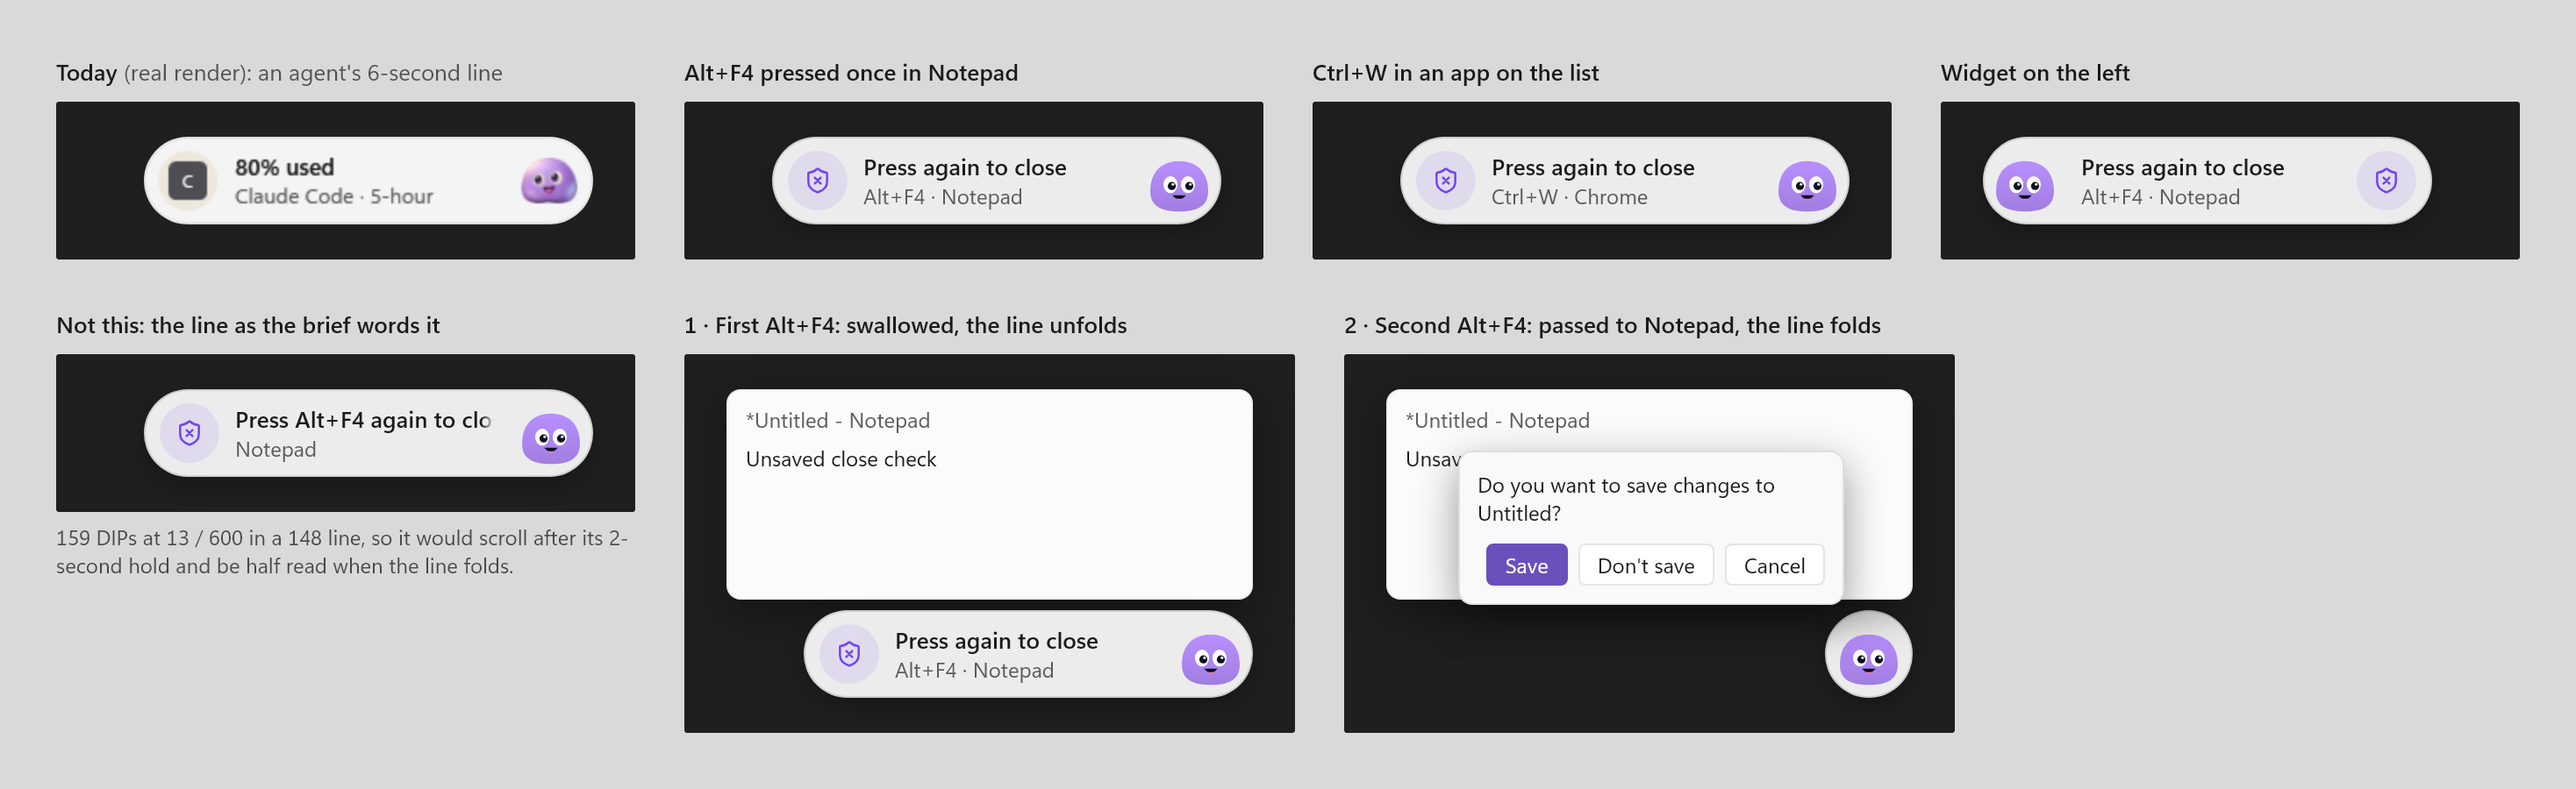
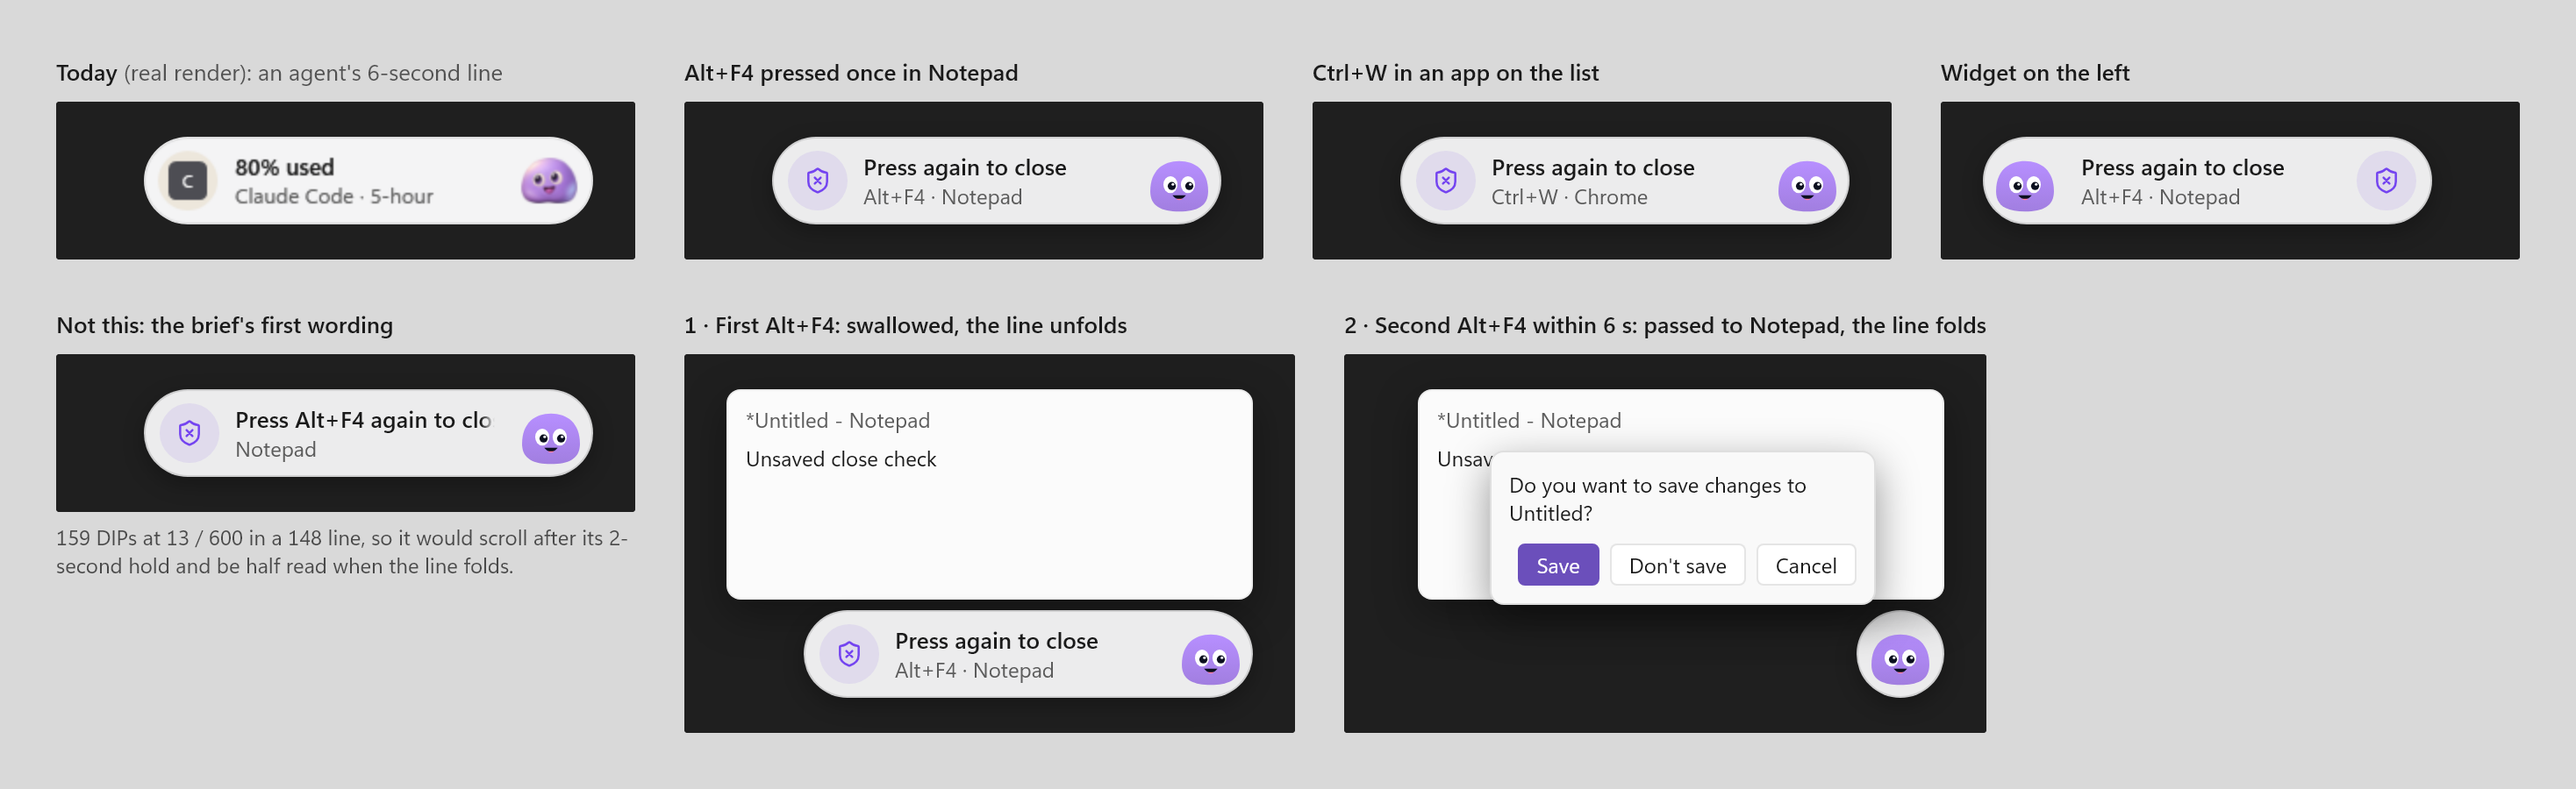
Phase 6: record Travis's wave 1 answers (tasks 262 to 264)
- wave-1.html approved, with real app icons (WindowsAppIcons) in every app list
- Close protection: a second press counts while the bar line shows (6 s), replacing 600 ms; the line folds whenever the pending press ends
- Close protection: when the bar can't show, the first press plays Windows' default beep
- Bar line wording "Press again to close" over "Alt+F4 · Notepad" carried into the brief, architecture and README

Changed region(s): [[0.5269, 0.4044, 0.7749, 0.9333], [0.062, 0.4044, 0.186, 0.4356]]

diff --git a/docs/phase-6/design/wave-1.html b/docs/phase-6/design/wave-1.html
@@ -1,4 +1,5 @@
 <!doctype html>
+<!-- Approved by Travis, 2026-11-04 (task 264). App lists show each app's real Windows icon, not these letter squares: see notes.md, App icons. -->
 <html lang="en">
 <head>
 <meta charset="utf-8">
@@ -374,9 +375,9 @@ const B={
   ${L('Ctrl+W in an app on the list',desk(bar('Press again to close','Ctrl+W · Chrome')))}
   ${L('Widget on the left',desk(bar('Press again to close','Alt+F4 · Notepad',{left:1}),'left'))}</div>
   <div class="srow">
-  ${L('Not this: the line as the brief words it',desk(bar('Press Alt+F4 again to close','Notepad',{cut:1})),'159 DIPs at 13 / 600 in a 148 line, so it would scroll after its 2-second hold and be half read when the line folds.')}
+  ${L('Not this: the brief\'s first wording',desk(bar('Press Alt+F4 again to close','Notepad',{cut:1})),'159 DIPs at 13 / 600 in a 148 line, so it would scroll after its 2-second hold and be half read when the line folds.')}
   ${L('1 · First Alt+F4: swallowed, the line unfolds',desk(notepad()+bar('Press again to close','Alt+F4 · Notepad')))}
-  ${L('2 · Second Alt+F4: passed to Notepad, the line folds',desk(notepad(1)+puck))}</div>`
+  ${L('2 · Second Alt+F4 within 6 s: passed to Notepad, the line folds',desk(notepad(1)+puck))}</div>`
 };
 document.body.className=theme;
 const html=B[board]();

diff --git a/docs/phase-6/design/notes.md b/docs/phase-6/design/notes.md
@@ -5,7 +5,7 @@ Every app, count and setting in these mockups is invented. Nothing read or chang
 ## Files
 
 - `actions-shortcuts.html`: task 212, the Actions menus and Settings › Shortcuts. Travis approved it on 2026-11-04 (task 240) with option B (task 224).
-- `wave-1.html`: wave 1's Settings screens and Close protection's bar line. **Not approved yet.**
+- `wave-1.html`: wave 1's Settings screens and Close protection's bar line. Travis approved it on 2026-11-04 (task 264), with real app icons in every app list ([App icons](#app-icons)).
 - `before\`: real renders from `main` at `b9b6d05`: the Actions gallery, Settings › General and Radial menu (`--settings-snapshot`, a dev profile with only Radial menu and every hold off), and the agent's 6-second bar line (`AgentBarTests.Render`).
 - `shots\<board>-<theme>.png`: 2x renders of every board, dark and light.
 - `render.ps1`: renders the PNGs again with headless Edge. Use `-Only <board>,<board>` to render only some boards.
@@ -30,11 +30,17 @@ Add `?board=<id>&theme=dark|light` to either page to see one board.
 
 `sheet-actions` B shows Input, Snap and Switcher partway through the gallery. The rule in `input-layer.md` replaces that order: remaining tiles keep their order, and a new tile goes after the last tile once its feature is installed (Kayla, Lumen and Marge, #223). The tiles themselves are as approved.
 
-## Wave 1: choices to approve
+## App icons
+
+Travis (task 264): every app list shows the app's real Windows icon, never the two-letter squares ("Ch", "VS") the mockup draws. That covers Pause in these apps, its Add app menu, Ctrl+W in these apps and Scrolling per app. Read the icon with `WindowsAppIcons` in Chippi.UI: `ReadWindow` for an app that's open, `Read` with the exe's path for one added with Browse… or not running. A letter shows only when Windows has no icon for the app, as in Search and Agents.
+
+The mockup keeps the squares because this repo is public and the apps are other companies' products, so their logos aren't drawn into it. Read each square as that app's icon at the same size (20 in lists and the menu).
+
+## Wave 1: choices Travis approved (task 264)
 
 1. **The bar line is "Press again to close" over "Alt+F4 · Notepad".** The brief's "Press Alt+F4 again to close" measures 159 DIPs at the bar's 13 / 600, and the title line has 148. It would scroll after its 2-second hold, so half of it would still be unread when the line folds. The keys and the app fit in the second line (91 DIPs). Ctrl+W uses the same line with "Ctrl+W · Chrome".
 2. **The lead is Close protection's ShieldX glyph** in the 34 accent-tint circle, the same as other activities, not the app's icon. The second line names the app.
-3. **The line folds when the second press closes the window.** The app's own save prompt takes over from there.
+3. **The line folds when the second press closes the window,** and whenever the pending press ends otherwise (6 s, focus moving, a pause). The app's own save prompt takes over from there.
 4. **Setting labels are noun phrases** (DESIGN.md §3): "Click debounce" and "Key debounce" replace the brief's "Ignore accidental double clicks" and "Ignore key chatter". "Debounce time" replaces "window", since "window" on the Windows pages would read as an app window.
 5. **The ignored count is the switch's caption** ("12 ignored"). It shows only while the switch is on, and it's kept in memory only.
 6. **Lists inside a section start with a header row** (the list's name, its count as caption and Add app or Add key), with items indented 50 below it, as dependent rows are. Pause in these apps, Ctrl+W in these apps, Keys with their own time and Scrolling per app all work this way.
@@ -43,12 +49,12 @@ Add `?board=<id>&theme=dark|light` to either page to see one board.
 9. **Open over fullscreen apps is the last row of Opening**, since it applies to every trigger above it. It's on by default.
 10. **A hook that stays down is an infobar naming the features that failed** ("Click debounce and Smooth scrolling failed", Retry), the same as the Shortcuts page's. It shows only after the watchdog's 5-second reinstall has failed.
 11. **Scroll speed and leaving an app alone share one list,** "Scrolling per app", with a combo per app: a speed, or Leave alone. A second list of the same apps would be redundant. Smooth scrolling is wave 2; it's drawn here so the Mouse page is designed once.
-12. **No row for fixed values:** Focus follows mouse's 250 ms delay and Close protection's 600 ms interval aren't settings (DESIGN.md §3, Setting labels).
+12. **No row for fixed values:** Focus follows mouse's 250 ms delay and Close protection's 6-second interval aren't settings (DESIGN.md §3, Setting labels).
 
-## Questions for Travis
+## Travis's answers
 
-1. **How long a second press counts.** The decided interval is 600 ms, and the bar's lines last 6 seconds. With both, the line still says "Press again" for 5.4 s after a second press would only be swallowed again. At 600 ms the bar has barely finished its 240 ms unfold, so the line can't be shorter. **Recommendation:** a second press counts for as long as the line shows (6 s), and the line folds when that time runs out. Focus moving to another window still resets the count, so a quick close of one window and then the next isn't affected.
-2. **When the bar can't show** (the island is off, or Always on is on while a fullscreen app fills the widget's display), the first Alt+F4 does nothing visible. **Recommendation:** play Windows' default beep in those cases, the same as Plain paste's failures.
+1. **How long a second press counts (task 262): while the line shows.** A second Alt+F4 or Ctrl+W closes the app for as long as the bar shows "Press again to close", 6 seconds, and the line folds when that runs out. This replaces the 600 ms interval, which would have left the line saying "Press again" for 5.4 s while a press was only swallowed again. Focus moving to another window still resets the count, so closing one window and then the next isn't affected.
+2. **When the bar can't show (task 263): the first press beeps.** With the island off, or Always on on while a fullscreen app fills the widget's display, the first press plays Windows' default beep, the same as Plain paste's failures. The second press still counts for 6 seconds.
 
 ## Not drawn, and why
 

diff --git a/docs/phase-6/close-protection.md b/docs/phase-6/close-protection.md
@@ -1,6 +1,6 @@
 # Close protection: brief
 
-Draft for Travis's confirmation. Wave 1. Bar feedback mockup required. [Decisions](README.md); [reference evidence](behavior-spec-a.md#3-quit-and-close-protection).
+Confirmed by Travis (task 240). Wave 1. The bar line and Settings › Windows › Keyboard are approved in [wave-1.html](design/wave-1.html) (task 264). [Decisions](README.md); [reference evidence](behavior-spec-a.md#3-quit-and-close-protection).
 
 ## Job and surface
 
@@ -8,11 +8,13 @@ Prevent accidental keyboard close. Settings > Windows > Keyboard owns Close prot
 
 ## Behavior
 
-When enabled, protect Alt+F4 in every eligible app. Swallow the first press and show "Press Alt+F4 again to close" on the bar without taking focus. Pass the second distinct physical press to the same window. Chippi sends no keys; the app keeps its normal close and save flow.
+When enabled, protect Alt+F4 in every eligible app. Swallow the first press and show "Press again to close" over "Alt+F4 · Notepad" (the app's name) on the bar without taking focus. Pass the second distinct physical press to the same window. Chippi sends no keys; the app keeps its normal close and save flow.
 
-Proposed interval: 600 ms, using an injected monotonic clock, matching the reference default. A held key's repeat never counts as a second press. Pending state belongs to window identity, process identity and chord. Reset on expiry, focus change, target destruction, lock, disable or shared pause. Handle down/up consistently so a swallowed press cannot leave keys logically held.
+Interval (Travis, task 262): a second press counts for as long as the bar shows the line, 6 seconds, the bar's usual line time. This replaces the reference's 600 ms. Use an injected monotonic clock. A held key's repeat never counts as a second press. Pending state belongs to window identity, process identity and chord. Reset on expiry, focus change, target destruction, lock, disable or shared pause. The line folds whenever the pending press ends: the second press, expiry or any reset, so it never says "Press again" when a press would be swallowed. Handle down/up consistently so a swallowed press cannot leave keys logically held.
 
-Ctrl+W is protected only for selected apps and uses "Press Ctrl+W again to close". Its pending state is independent. The app may close a tab or document.
+When the bar can't show (Travis, task 263): with the island off, or with Always on on while a fullscreen app fills the widget's display, the first press plays Windows' default beep (`MessageBeep(0)`, as Plain paste's failures do) instead. The press is still swallowed, and the second press counts for the same 6 seconds.
+
+Ctrl+W is protected only for selected apps and uses "Press again to close" over "Ctrl+W · Chrome". Its pending state is independent. The app may close a tab or document.
 
 Title-bar X, taskbar Close window, menus, shutdown, crashes and Task Manager are outside coverage. Desktop Alt+F4 passes through. Elevated targets pass through. Remote desktop and VM hosts need exclusions until forwarding is verified.
 
@@ -24,12 +26,12 @@ Match Vorssaint's distinct-press recognition while preserving Windows' normal sa
 
 ## Acceptance and owner check
 
-Deterministic tests cover interval boundaries, repeats, key-up balancing, focus changes, reused handles, exclusions, pause and disabling between presses. Assert zero synthetic input.
+Deterministic tests cover interval boundaries (a press at 5.99 s closes, at 6 s it's the first press again), the line folding on every reset, the beep when the bar can't show, repeats, key-up balancing, focus changes, reused handles, exclusions, pause and disabling between presses. Assert zero synthetic input.
 
-In Windows Sandbox with clipboard redirection and networking off, use a dev profile without Sound. Open Notepad, type "Unsaved close check", enable protection and press Alt+F4 once: text stays and the bar shows the line. Release F4 and press again within the interval: exactly one save prompt appears. Click Cancel. Repeat after interval expiry, then while holding F4 to exercise repeat. Test opt-in Ctrl+W on a disposable browser tab, title-bar X and fullscreen pause.
+In Windows Sandbox with clipboard redirection and networking off, use a dev profile without Sound. Open Notepad, type "Unsaved close check", enable protection and press Alt+F4 once: text stays and the bar shows the line. Release F4 and press again within 6 seconds: exactly one save prompt appears. Click Cancel. Repeat after the line folds (6 s): that press is a first press again. Then hold F4 to exercise repeat. Then turn the island off (warn first: this step plays a sound) and press Alt+F4 once: the default beep plays and the text stays; press again within 6 seconds: the save prompt appears. Test opt-in Ctrl+W on a disposable browser tab, title-bar X and fullscreen pause.
 
 Record feedback latency and bar screenshots. No input checks have run for this draft.
 
 ## Approval and dependencies
 
-Shared hook, app identity, actions and pause belong to Kayla's architecture. Travis confirms the proposed interval with this brief; the initial off state is decided, and the bar mockup needs approval before code.
+Shared hook, app identity, actions and pause belong to Kayla's architecture. Decided: the brief (task 240), the 6-second interval (task 262), the beep (task 263), the bar line and the Keyboard page (task 264), and the initial off state (task 226). Its app list shows each app's real icon (task 264, see [notes](design/notes.md#app-icons)).

diff --git a/docs/phase-6/architecture.md b/docs/phase-6/architecture.md
@@ -104,7 +104,7 @@ Sizes: **S** about a day, **M** a few days, **L** a week or more, each one PR.
 
 **App switcher with previews: L.** Opened by its own shortcut from the shortcut service; taking over Alt+Tab is a later option (task 211, #6) and then needs the hub with Alt masked. The list follows Windows' Alt+Tab rules (`AltTabApps`: visible, not cloaked, which also hides other virtual desktops, owner and tool-window styles), ordered by Chippi's own most-recent list from the foreground WinEvent, falling back to z-order for windows older than the session. Previews are live DWM thumbnails. **Probe:** a DWM thumbnail draws fully inside a WPF `AllowsTransparency` window, as in a plain one (`DwmRegisterThumbnail` and `DwmUpdateThumbnailProperties` both S_OK, 69.3% of the window covered in both), so the switcher can look like the island. A thumbnail draws above WPF content in its rectangle and can't be clipped to rounded corners, so it's inset, not rounded; a minimized window has no live preview, so it shows its icon, like Windows. Switching uses the island's `ActivateWindow`; a spike first checks the hand-off never leaves focus nowhere.
 
-**Close protection: S.** Keys only (task 211, #7). The first Alt+F4 (and Ctrl+W in the apps it's turned on for) is swallowed and the bar shows "Press Alt+F4 again to close"; a second press within the window passes through untouched, so Chippi sends nothing. Not covered: the close button, the taskbar's Close window, an app's own menu, admin windows.
+**Close protection: S.** Keys only (task 211, #7). The first Alt+F4 (and Ctrl+W in the apps it's turned on for) is swallowed and the bar shows "Press again to close" over "Alt+F4 · Notepad" (task 264), or Windows' default beep plays when the bar can't show (task 263); a second press while the line shows (6 s, task 262) passes through untouched, so Chippi sends nothing. Not covered: the close button, the taskbar's Close window, an app's own menu, admin windows.
 
 **Focus follows mouse: S.** Windows has it built in: `SPI_SETACTIVEWINDOWTRACKING`, with the window raised (`SPI_SETACTIVEWNDTRKZORDER`) after 250 ms (`SPI_SETACTIVEWNDTRKTIMEOUT`). No hook, and no fights with the foreground lock that an own version would have. Chippi records the setting it found and puts it back when the feature is off, paused, or uninstalled, and after a crash at the next start.
 

diff --git a/docs/phase-6/README.md b/docs/phase-6/README.md
@@ -24,6 +24,7 @@ Window layouts and snapping, app switcher, close protection, focus follows mouse
 - **Actions regroup (tasks 224 and 225):** option B. Lock, Turn off displays and Screen saver move into the Power menu, and End frozen apps moves into Quit apps, where a frozen app shows "Not responding" with End. Lock doesn't stay as a tile of its own. Phase 6 adds Snap, Input and Switcher as each feature is installed, which makes 18 tiles. Mockup: Lumen's Actions option B and menus (task 212).
 - **Start state (task 226):** what acts on your input in the background is off until you switch it on, even once it's installed: Close protection, Focus follows mouse, Smooth scrolling and Debounce (the four Travis was asked about), and by the same rule Snap's Shift+drag zones, Caps Lock combos and snippet expansion while typing. What you trigger yourself works once installed: the Snap menu, the App switcher's tile and Search, snippets picked in Search, and shortcuts you bind. The App switcher's shortcut is unassigned until you set one.
 - **Wave 1 calls (task 227):** Always on lives in Settings › General under Fullscreen apps. A "Pause in these apps" list covers games that run in a window. Shortcuts from before Phase 6 (mic mute and the rest) never pause.
+- **Wave 1 screens (tasks 262 to 264):** Travis approved Lumen's wave 1 mockup (`design/wave-1.html`), with each app's real Windows icon in every app list instead of letter squares. Close protection's bar line reads "Press again to close" over "Alt+F4 · Notepad". A second press counts for as long as that line shows (6 seconds), replacing 600 ms. When the bar can't show, the first press plays Windows' default beep.
 
 ## Lead calls (Marge)
 
